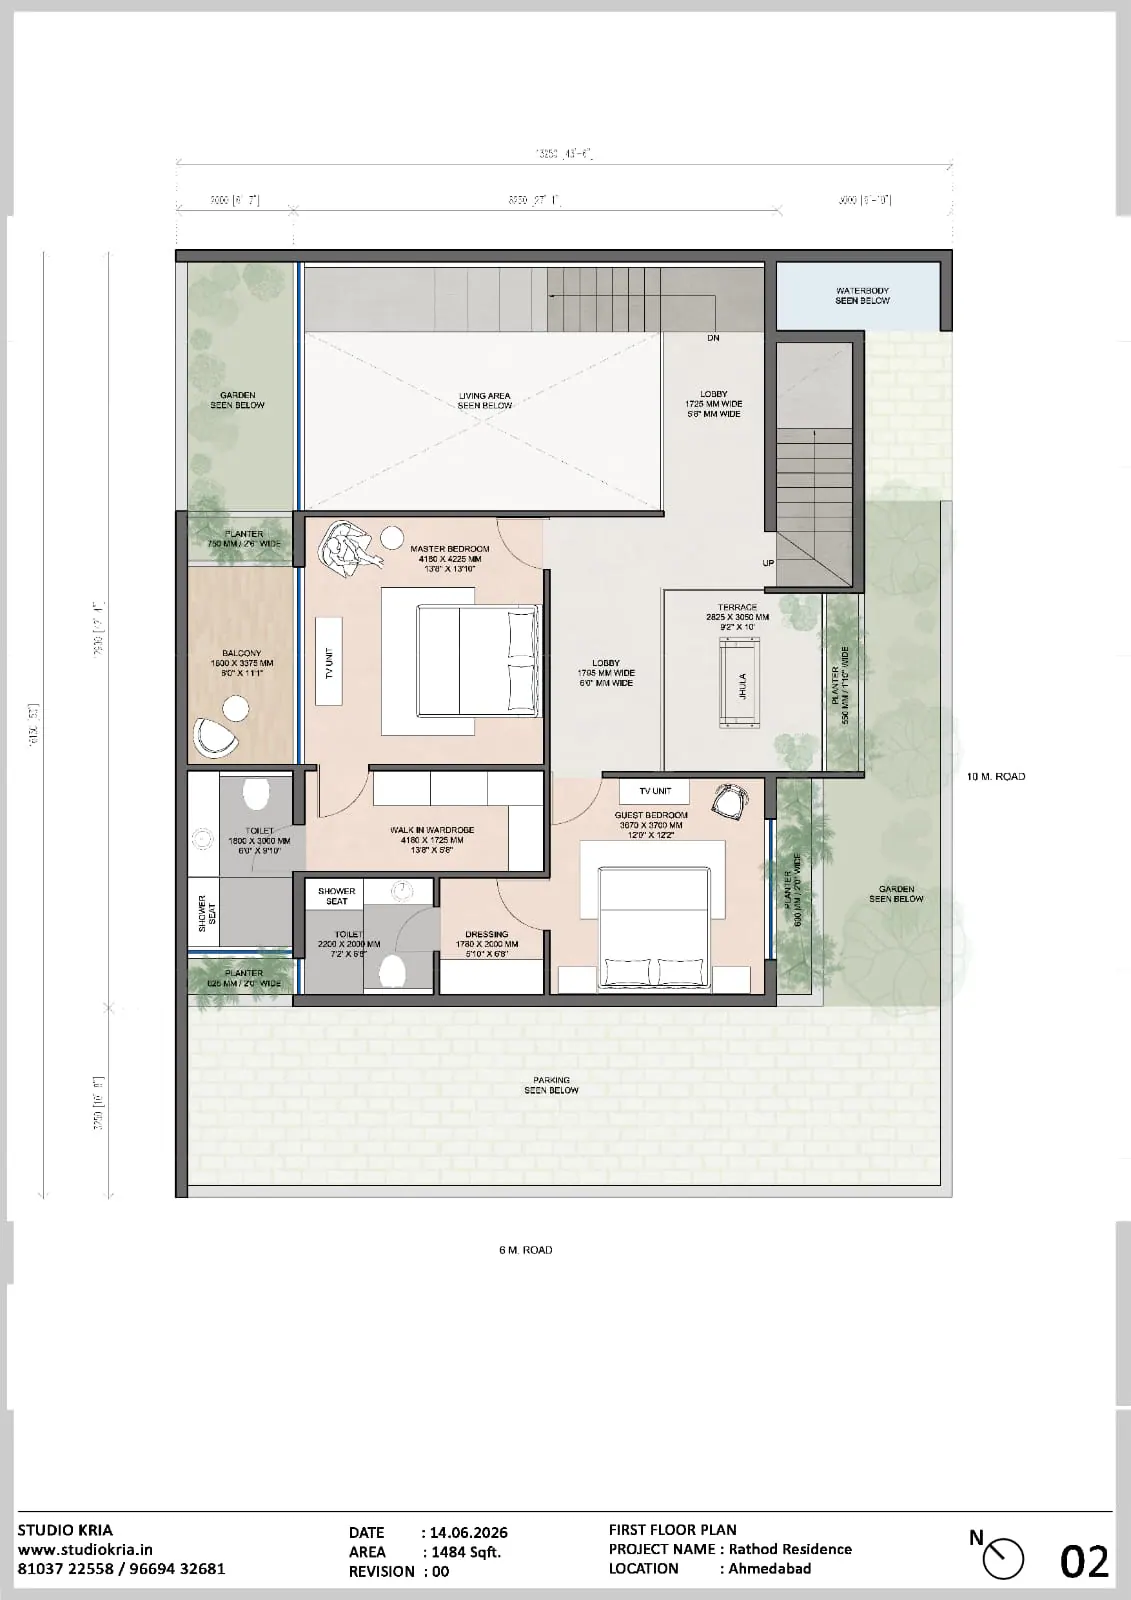
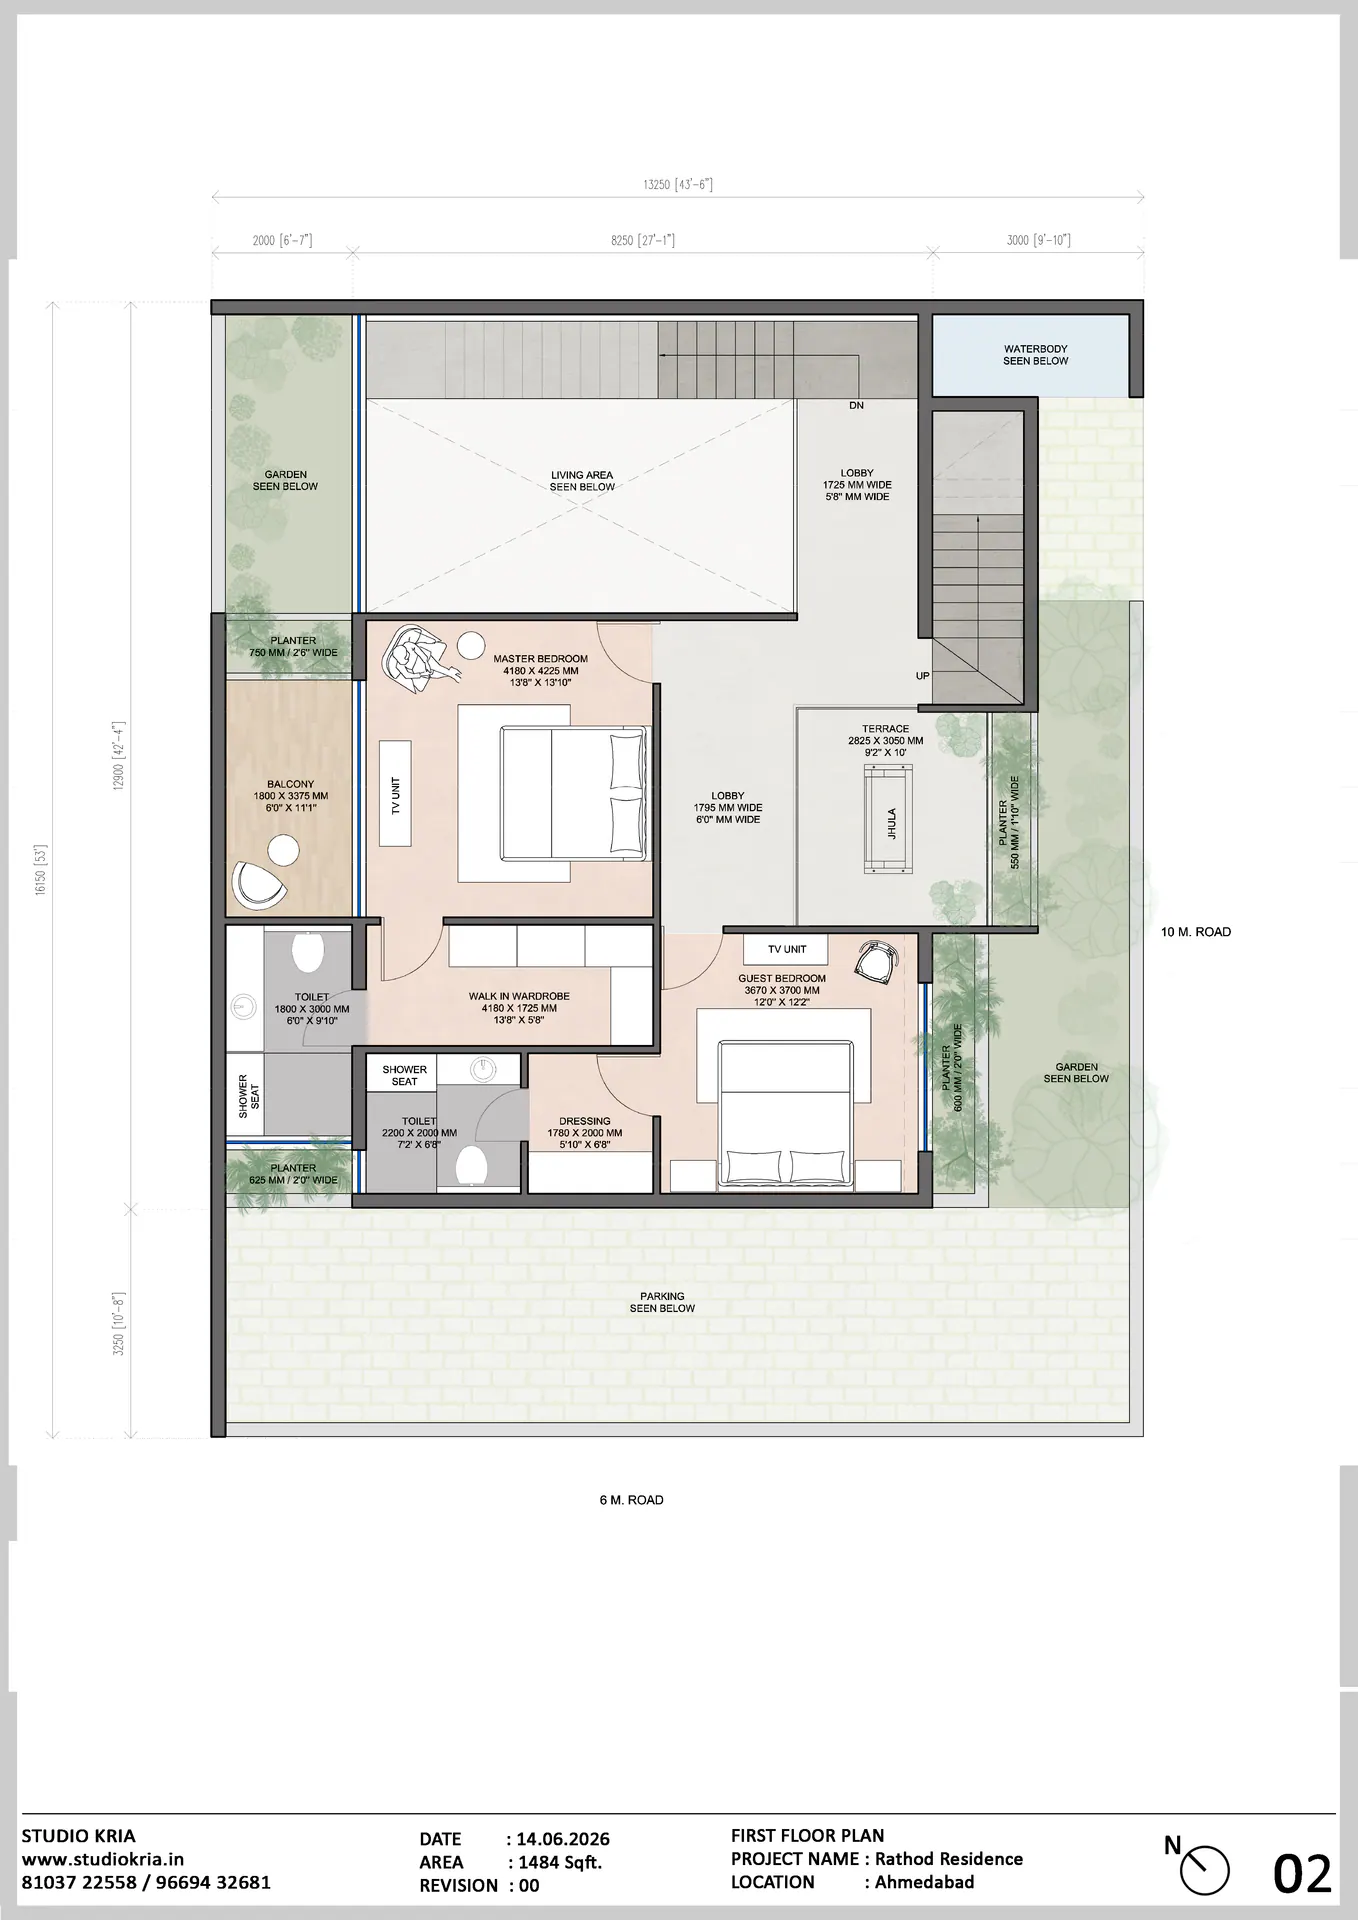
RathodResidency image updates

diff --git a/src/Components/ProjectDetails/RathodResidency.tsx b/src/Components/ProjectDetails/RathodResidency.tsx
@@ -11,14 +11,14 @@ const images: ProjectImage[] = [
     src: GroundFloorPlan,
     alt: "Ground Floor Plan",
     span: 2,
-      aspectRatio: "aspect-[4/3]"
+    aspectRatio: "aspect-[7/10]"
   },
   {
     id: 2,
     src: FirstFloorPlan,
     alt: "First Floor Plan",
     span: 2,
-    aspectRatio: "aspect-[4/3]"
+    aspectRatio: "aspect-[7/10]"
   }
 ];
 
